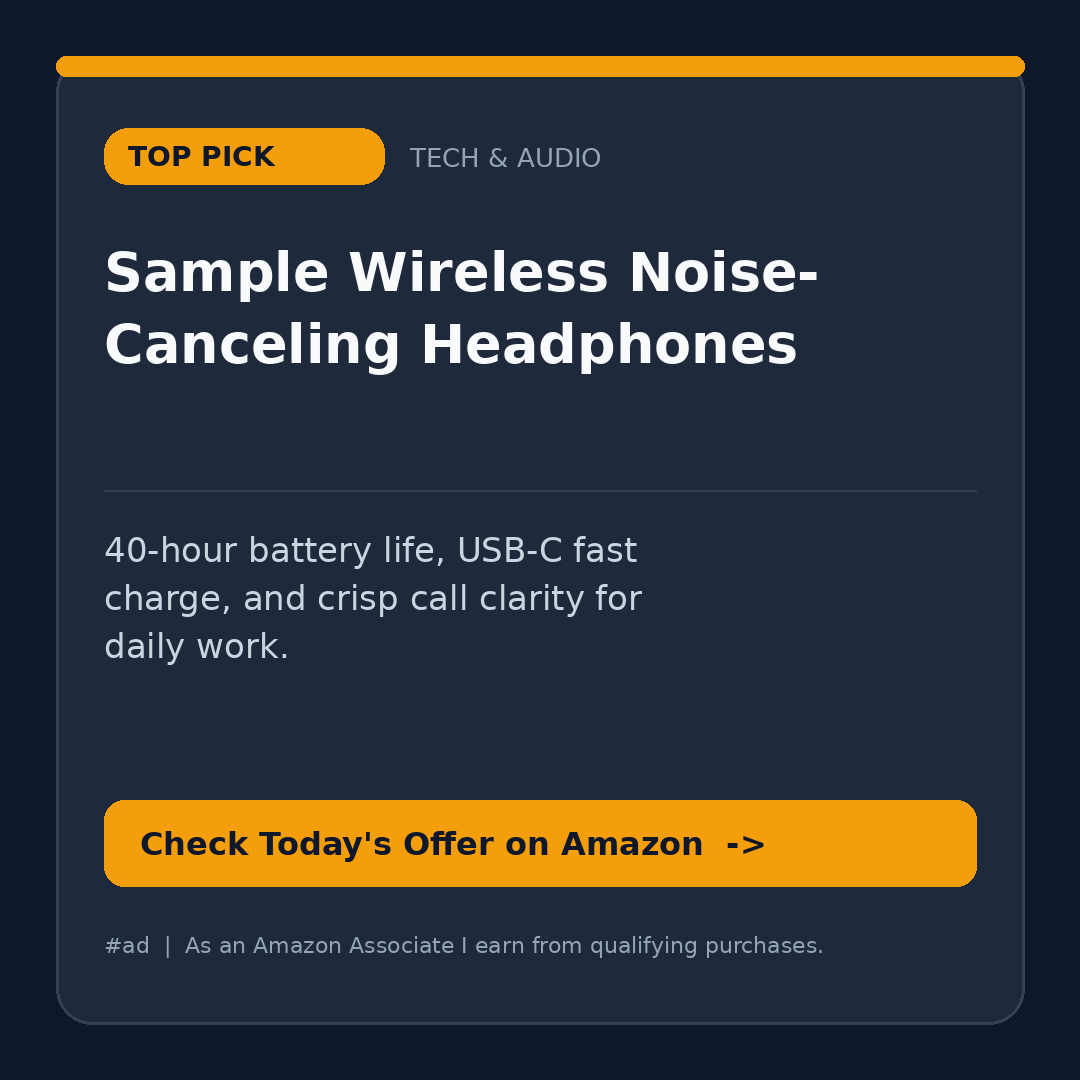
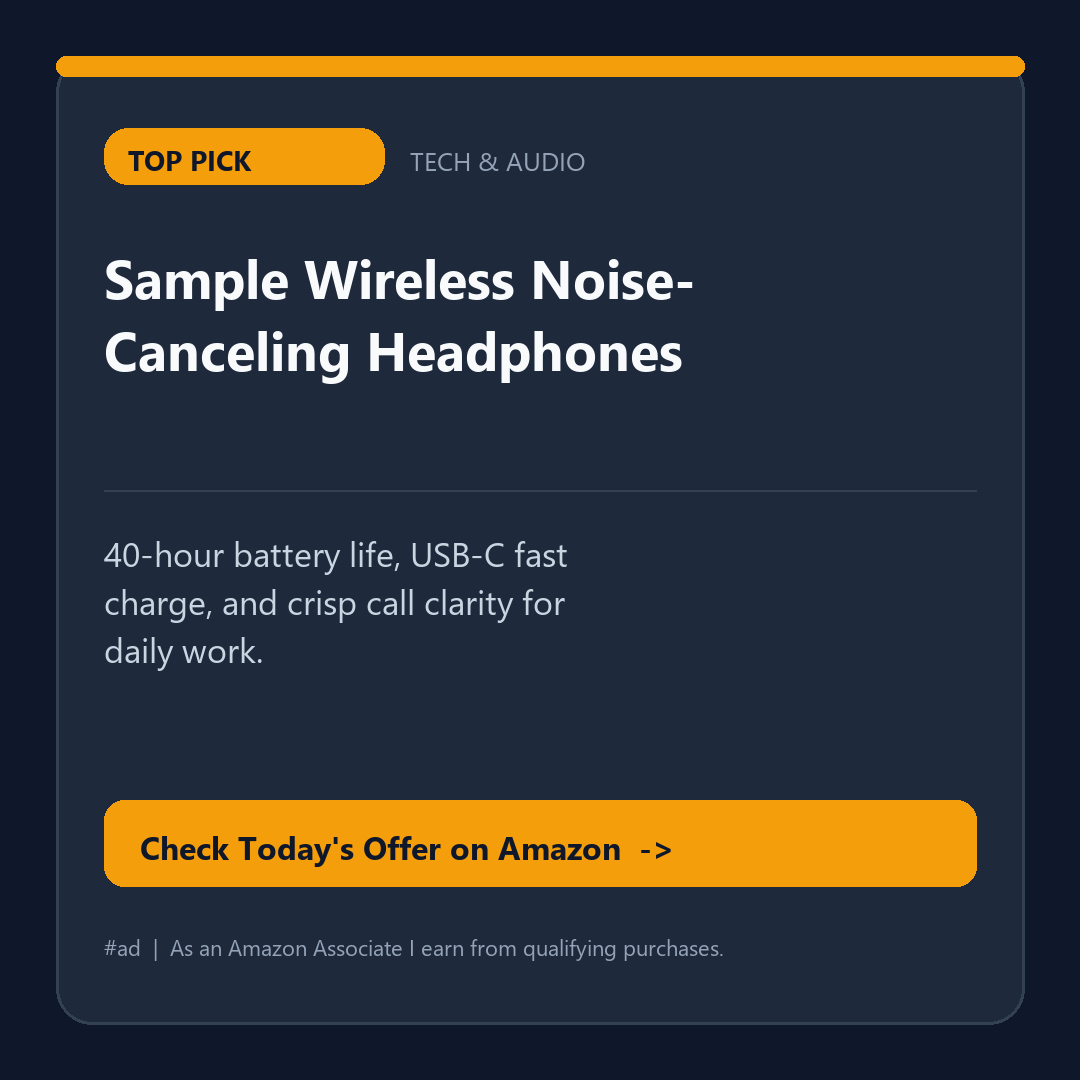
chore: configure Amazon Associate partner tag ug0f7-21

diff --git a/docs/index.html b/docs/index.html
@@ -146,7 +146,7 @@
   </div>
   <header>
     <h1>Curated Amazon Finds</h1>
-    <p class="subtitle">Hand-picked gear, deals, and essentials. Updated 2026-11-26 08:44 UTC.</p>
+    <p class="subtitle">Hand-picked gear, deals, and essentials. Updated 2026-11-26 08:57 UTC.</p>
     <div class="controls">
       <div class="filters">
         <button class="filter-btn active" data-category="all">All</button>
@@ -169,7 +169,7 @@
                 </div>
                 <h2>Sample Wireless Noise-Canceling Headphones</h2>
                 <p>40-hour battery life, USB-C fast charge, and crisp call clarity for daily work.</p>
-                <a class="cta" href="https://www.amazon.in/dp/B0EXAMPLE01?tag=yourtag-21" target="_blank" rel="nofollow sponsored noopener noreferrer">
+                <a class="cta" href="https://www.amazon.in/dp/B0EXAMPLE01?tag=ug0f7-21" target="_blank" rel="nofollow sponsored noopener noreferrer">
                   Check Today&#x27;s Offer on Amazon &rarr;
                 </a>
                 <p class="card-disc">#ad &middot; Amazon link</p>
@@ -187,7 +187,7 @@
                 </div>
                 <h2>Sample Ergonomic Laptop Stand</h2>
                 <p>Foldable aluminum frame with 6 height angles to reduce neck strain.</p>
-                <a class="cta" href="https://www.amazon.in/dp/B0EXAMPLE02?tag=yourtag-21" target="_blank" rel="nofollow sponsored noopener noreferrer">
+                <a class="cta" href="https://www.amazon.in/dp/B0EXAMPLE02?tag=ug0f7-21" target="_blank" rel="nofollow sponsored noopener noreferrer">
                   View on Amazon &rarr;
                 </a>
                 <p class="card-disc">#ad &middot; Amazon link</p>

diff --git a/scripts/build_pipeline.py b/scripts/build_pipeline.py
@@ -16,7 +16,7 @@ POSTED_FILE = ROOT_DIR / "data" / "posted_ids.json"
 DOCS_DIR = ROOT_DIR / "docs"
 CARDS_DIR = DOCS_DIR / "cards"
 
-PARTNER_TAG = os.getenv("AMAZON_PARTNER_TAG", "yourtag-21").strip() or "yourtag-21"
+PARTNER_TAG = os.getenv("AMAZON_PARTNER_TAG", "ug0f7-21").strip() or "ug0f7-21"
 MARKETPLACE = os.getenv("AMAZON_MARKETPLACE", "amazon.in").strip() or "amazon.in"
 TELEGRAM_BOT_TOKEN = os.getenv("TELEGRAM_BOT_TOKEN", "").strip()
 TELEGRAM_CHAT_ID = os.getenv("TELEGRAM_CHAT_ID", "").strip()
